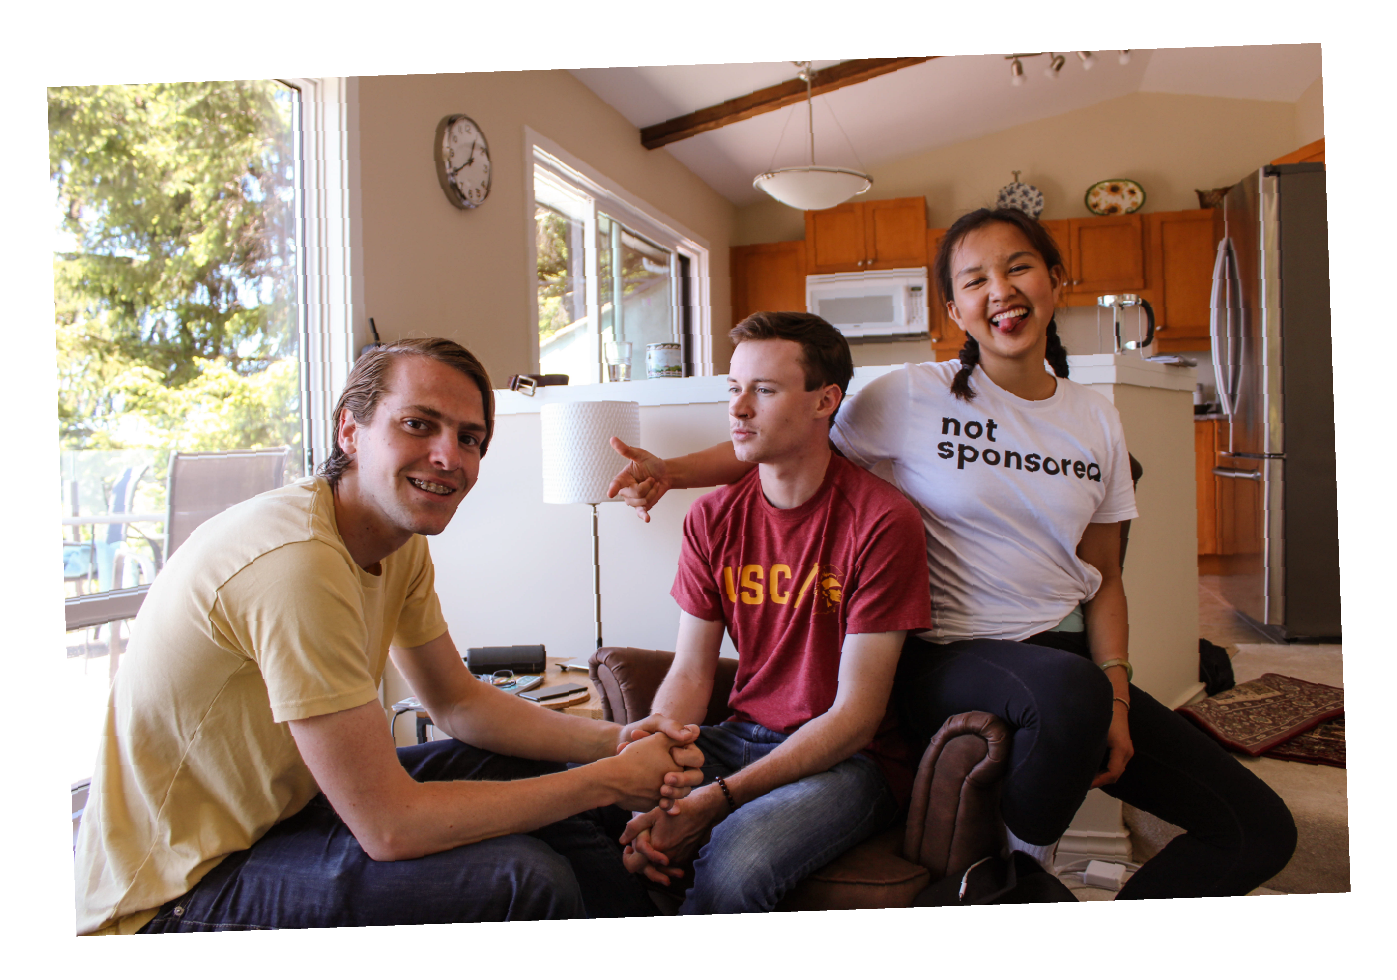
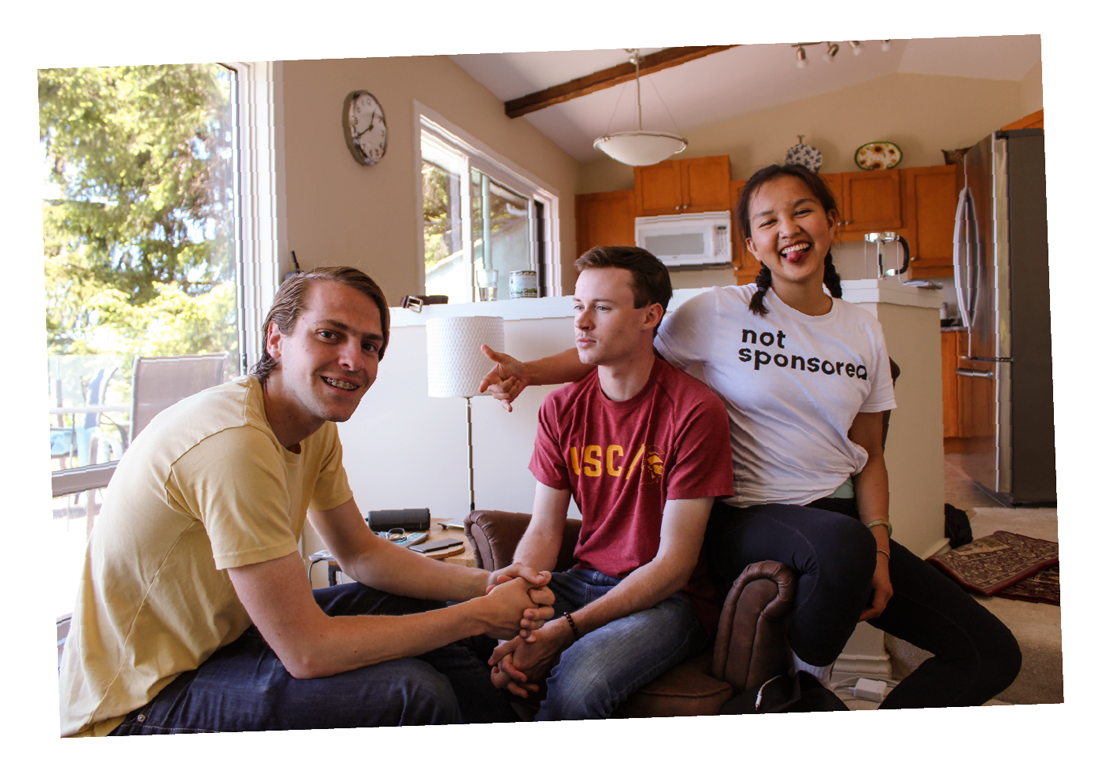
added new mockup & updated privacy policy

diff --git a/public/privacy.html b/public/privacy.html
@@ -32,11 +32,23 @@
     <h1 class="hero centered">Privacy Policy </h1>
     <h4 class="hero centered">Last Updated: June 11, 2018           </h4>
     <div class="middle">
-      <p>Skipper operates by delivering the client algorithms to run on their own servers. We never see, or are never sent any of your company’s communication data.</p>
-      <p>During the consultation, if you decide to share confidential information that help us design the algorithms and analysis to send, all information labelled as such will be discarded immediately after the consultation.</p>
-      <p>During analysis, for teams that requesting an integration we offer the option to deploy our algorithm locally onto your own servers. This ensures to maintain the highest standards of privacy and security, as the communication data never leaves your company's server.</p>
-      <p>At any given time, your interactions are completely private and will not be shared with outside parties.</p>
-      <p>Please contact us if you have any questions.</p>
+      <p>At Skipper,  protecting your privacy is important to us. Accordingly, we’re providing this Privacy Policy to explain our practices regarding privacy and the personally identifiable information ("Personal Information") and other data we may collect, and how we intend to use and disclose information that we receive when you access our services, such as our web dashboard (“Service”). The Service is cannot be used by individuals who are younger than 13 years old.</p><br>
+      <h2>How we collect and use information</h2>
+      <p>Personal Information you provide to Us: We receive and store any Personal Information you enter on our Service. The types of Personal Information collected may include, but are not limited to, emails and messaging. Our primary goals in collecting information are to provide you with insights into your workplace and to improve our Service. We may draw upon this Personal Information in order to adapt the Service to your needs, to research the effectiveness of our network and Service, and to develop new tools for you.</p>
+      <p>Information we receive from third parties: We may receive and store information from third parties that interact with the Service. You may choose to use third party apps that share with Skipper Personal Information, activities and/or content you provide to those third party apps. Please read the individual policies of those apps to understand their sharing practices.</p>
+      <p>Cookies: Cookies are small bundles of data that usually contain an anonymous identification code specific to each user. A cookie is sent from a website, received by your browser, and stored on your computer. Cookies record basic session information.</p><br>
+      <h2>The Security of your Information</h2>
+      <p>Your Personal Information is protected by your username and password. To prevent unauthorized access to your Personal Information you must select and protect your password appropriately, and limit access to your computer and mobile phone to individuals who you trust to maintain your privacy and security. </p>
+      <p>Please be aware that despite our best efforts, no security measures are perfect or impenetrable and no method of data transmission can be guaranteed against any interception or other type of misuse.</p>
+      <p>For users outside of the United States, as part of the Service your Personal Information will be transferred to and processed in the United States.</p><br>
+      <h2>Modifying Your Information – rights of access, rectification, erasure, and restriction.</h2>
+      <p>You are the only person who can share your Personal Information, if you wish to do so using Skipper’s report generating feature. We will not rent or sell any Personal Information to anyone. We may also share Personal Information within our organization and with our affiliates, as noted below.</p>
+      <p>In rare exceptions, we may release Personal Information when we believe in good faith that release is necessary to comply with applicable laws, rules or regulations, including any applicable laws, rules or regulations outside your country of residence; to enforce or apply our conditions of use and other agreements; or to protect the rights, property, or safety of Skipper, our employees, our users, or others.</p>
+      <p>At any time, you may send an e-mail to support@skipper.com to request access to, receive (port), seek rectification, or request erasure of Personal Information held about you by Skipper. Please include your full name, email address associated with your Account, and a detailed description of your data request. A full removal of your data should include the subject line "Request to delete my data" and an explicit request from you that you want to close your account and delete all of your data.</p><br>
+      <h2>Changes to Privacy Policy</h2>
+      <p>Any information that we collect is subject to the privacy policy in effect at the time such information is collected. We may, however, modify and revise this Privacy Policy from time to time at our sole discretion. You understand and agree that you will be deemed to have accepted the updated Privacy Policy if you use the Services after the updated Privacy Policy is posted on the Services. If at any point you do not agree to any portion of the Privacy Policy then in effect, you are advised to immediately stop using the Services. If we make material changes to the way we use Personal Information, we will notify you by posting an announcement on our Service or by sending you an email to the address you have registered with us. </p><br>
+      <h2>Questions?</h2>
+      <p>Please contact us at support@skipper.ai if you have any questions about our Privacy Policy.</p>
     </div>
   </div>
 </div>

diff --git a/public/about.html b/public/about.html
@@ -59,7 +59,7 @@
     </div><br><br><br><br>
     <h1 class="hero centered">Our Philosophy on Inclusivity            </h1>
     <div class="middle">
-      <p>We’re people first. We cherish the rich and intersectional narratives that our users bring to the table, and strive to create an inclusive product to suit their diverse needs. We understand the moral imperatives and bottom line arguments for more diverse and inclusive teams, and we believe that by helping these teams foster a wider range of perspectives, they’ll be able to deliver better products and services. As a team, we bring a diversity of experiences to our work and strive to bring a diversity of backgrounds to our team as we grow. </p>
+      <p>We’re people first. We cherish the rich and intersectional narratives that our users bring to the table, and strive to create an inclusive product to suit their diverse needs. We understand the moral imperatives and bottom line arguments for more diverse and inclusive teams, and we believe that by helping these teams foster a wider range of perspectives, they’ll be able to deliver better products and services. AThe three of us bring a diversity of experiences to our work and strive to bring a diversity of backgrounds to our team as we grow. </p>
     </div>
   </div>
 </div>

diff --git a/public/index.html b/public/index.html
@@ -55,7 +55,7 @@
 <div class="background-blue full-width-bg centered">
   <div class="primary-container">
     <h1 class="hero white">Make data driven decisions about culture.</h1>
-    <h4 class="white">People managers use Skipper's initiative dashboard in instances like: estimating the impact remote work on productivity and well being or deciding which benefits package has the best return on investment.</h4><img class="large" src="images/home-demo.png">
+    <h4 class="white">People managers use Skipper's initiative dashboard in instances like: estimating the impact of remote work on engagement and productivity or deciding which benefits package has the best return on investment.</h4><img class="large" src="images/home-demo.jpg">
   </div>
 </div>
 <div class="primary-container" id="features">
